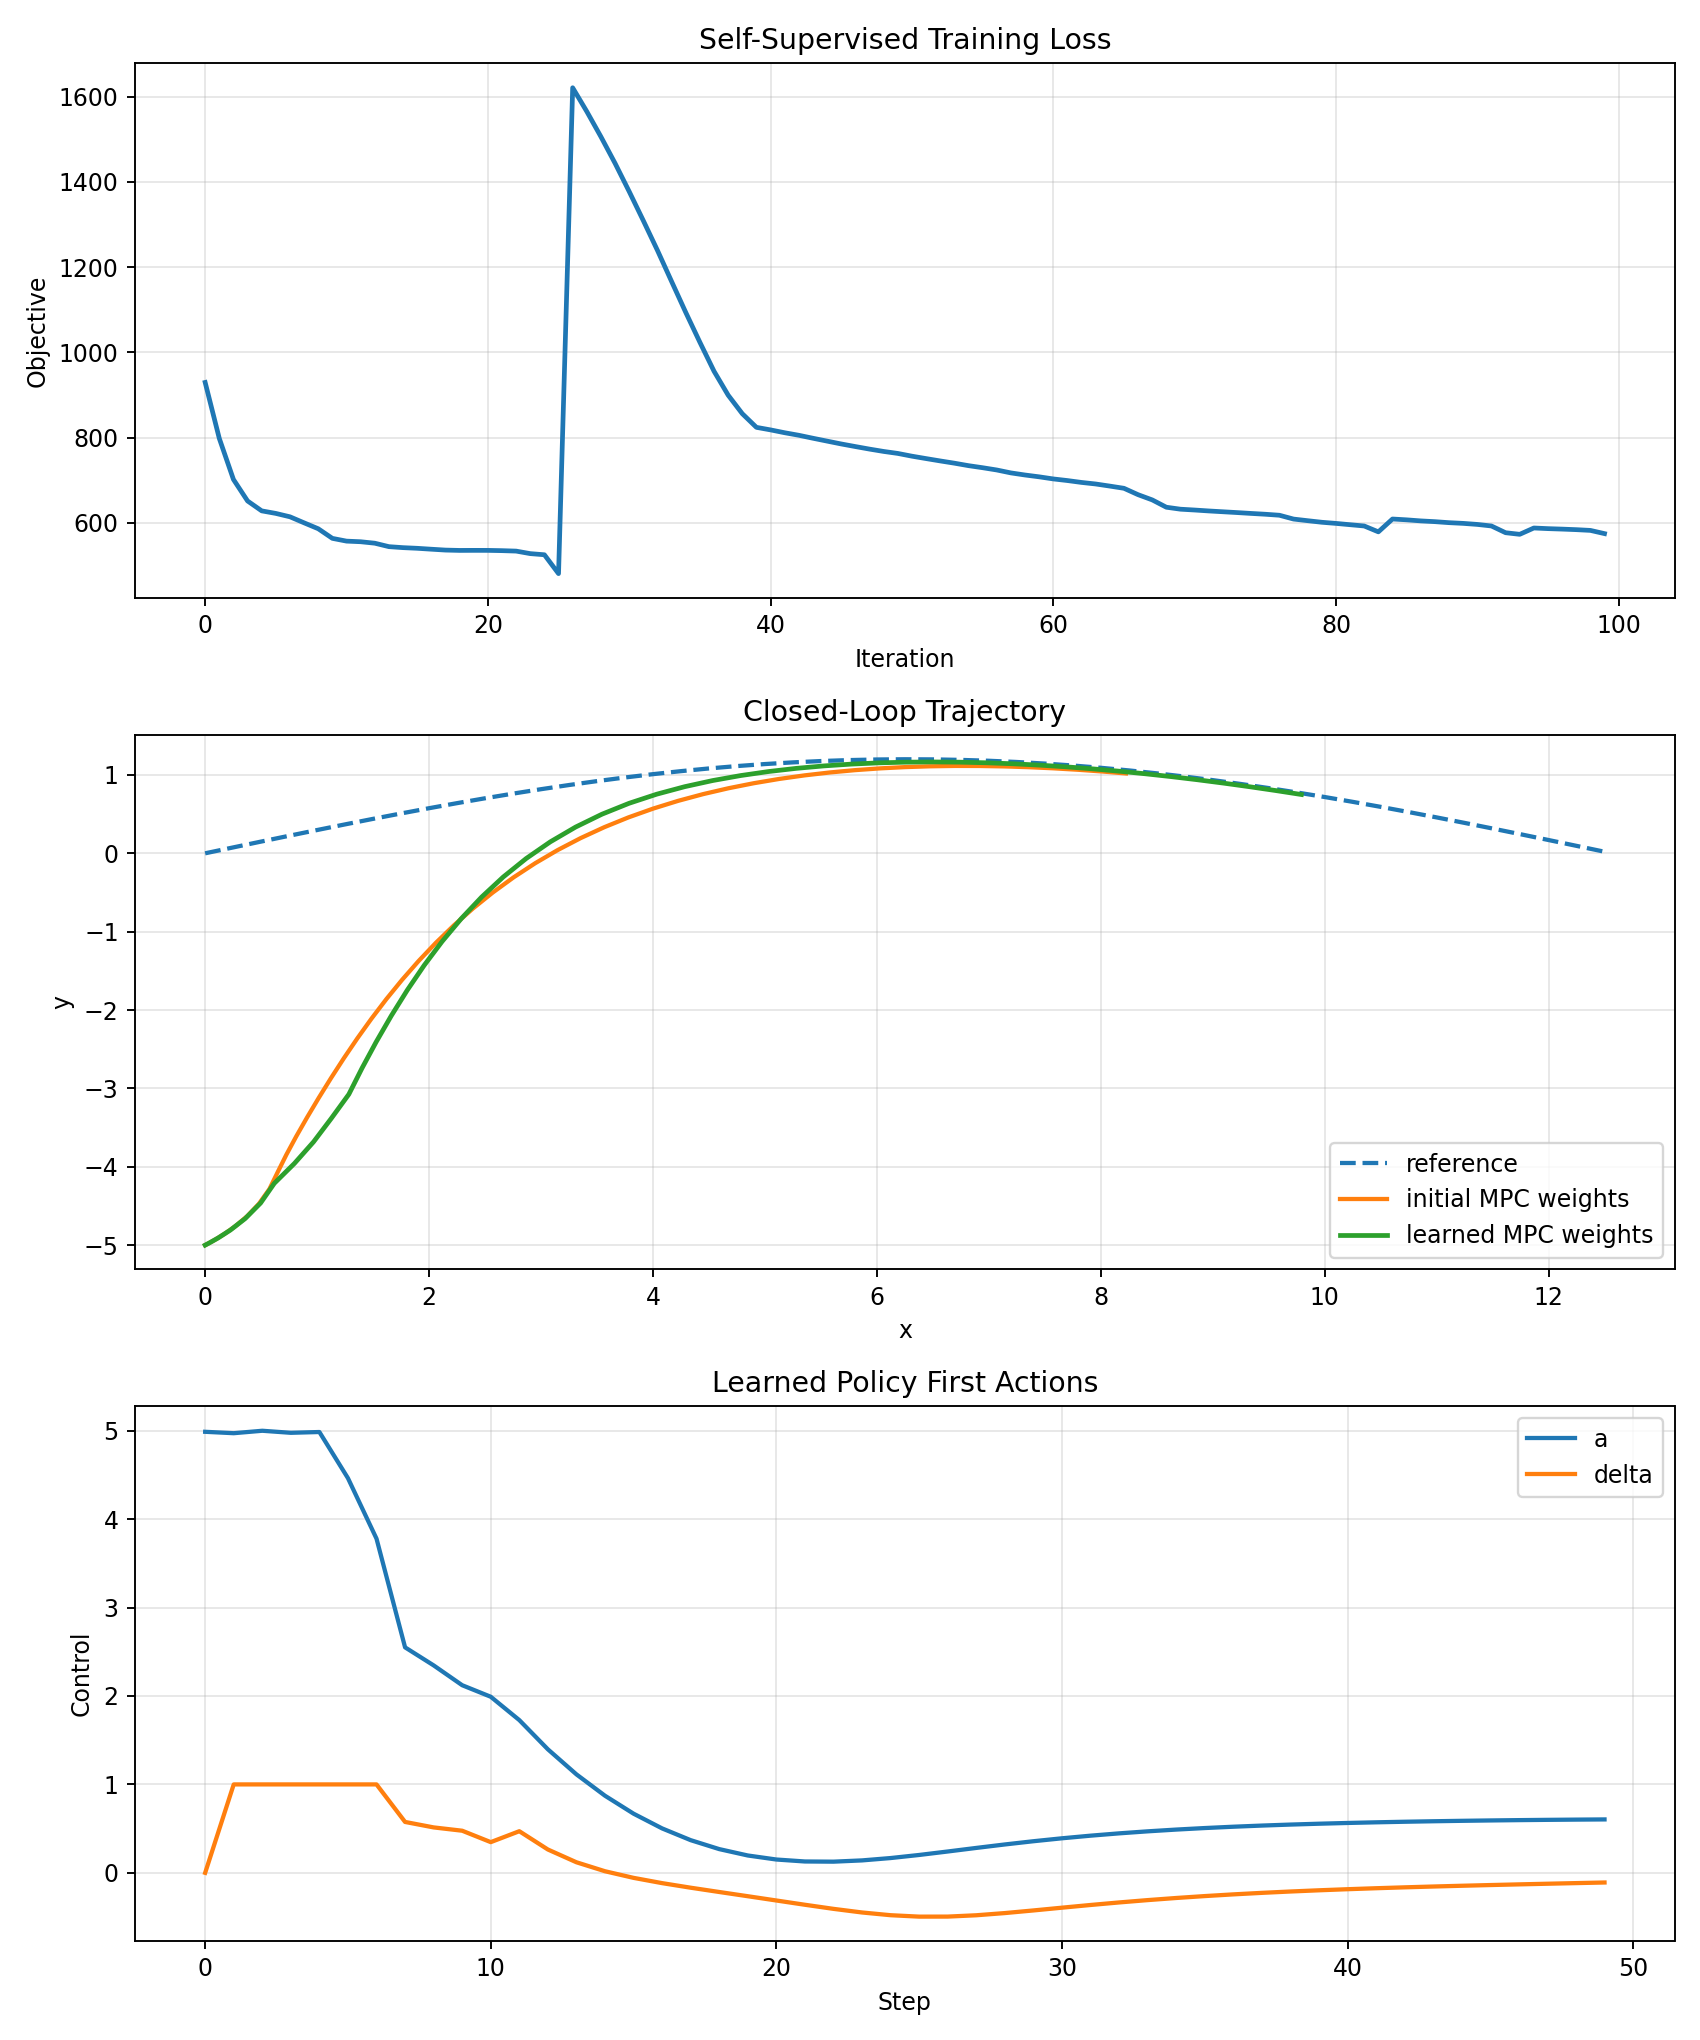
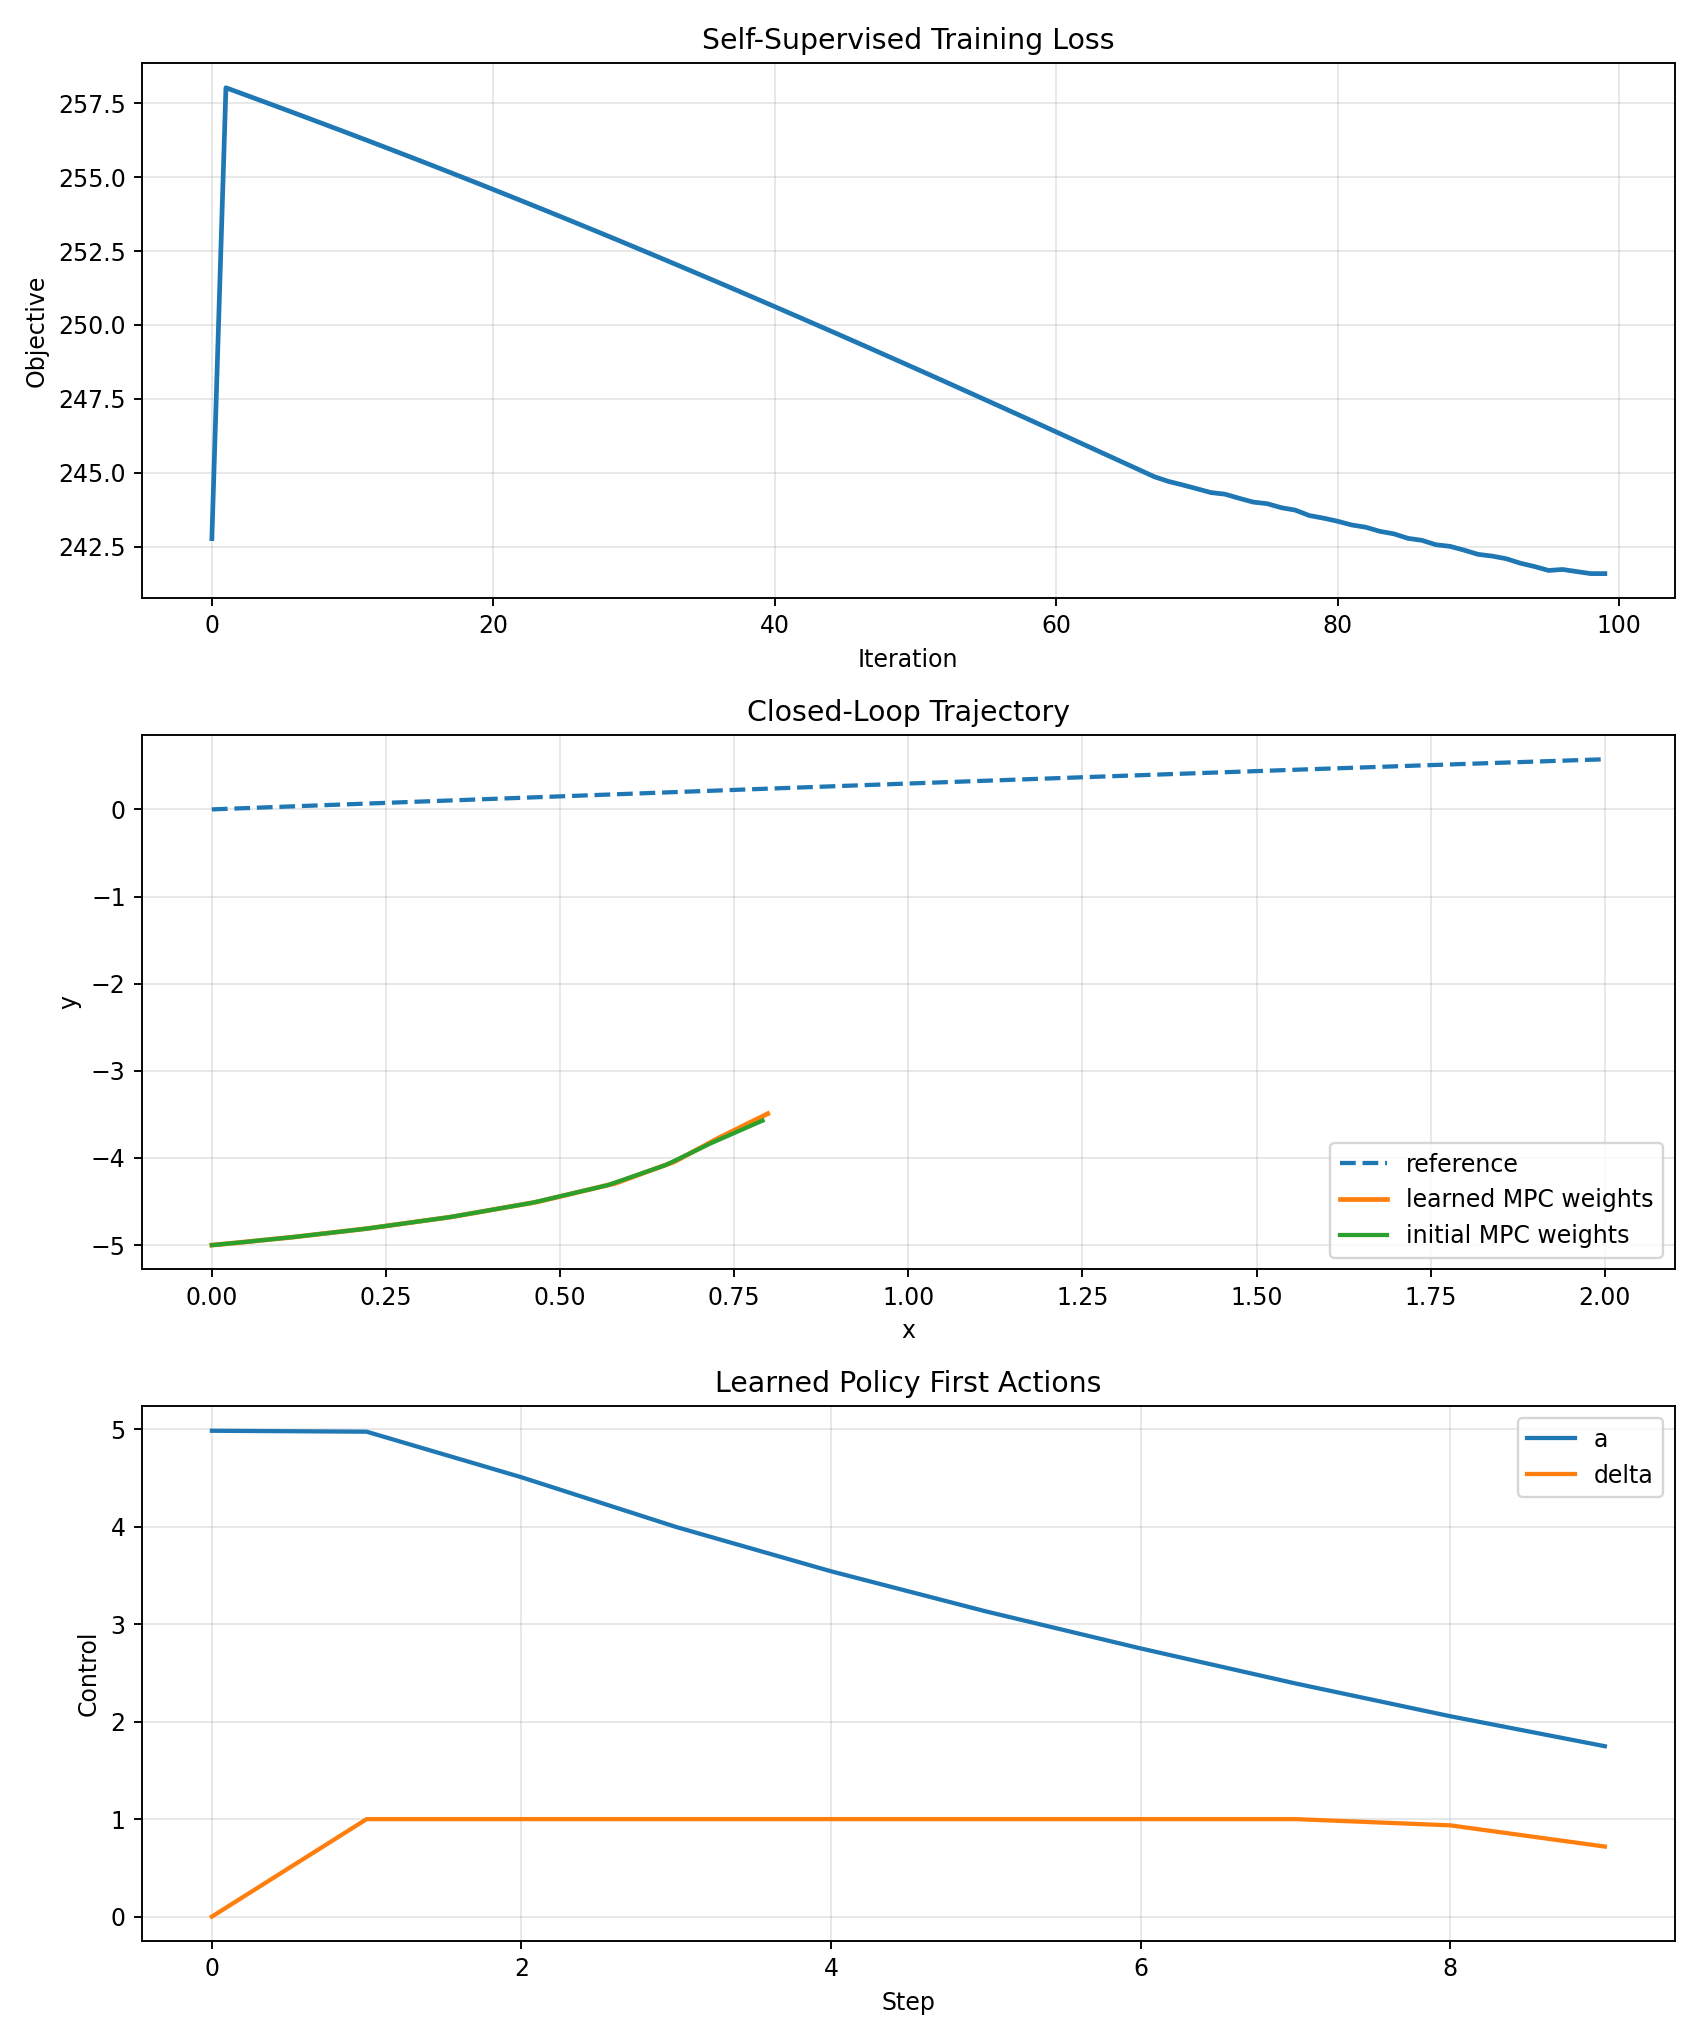
upload code for diffNMPC

diff --git a/JAX-example-DiffMPC/bicycle_diff_mpc_self_supervised_learning.py b/JAX-example-DiffMPC/bicycle_diff_mpc_self_supervised_learning.py
@@ -72,10 +72,10 @@ def bicycle_step(
     x, y, yaw, v = state
     a_cmd, delta_cmd = control
 
-    a = jnp.clip(a_cmd, -a_max, a_max)
+    a     = jnp.clip(a_cmd, -a_max, a_max)
     delta = jnp.clip(delta_cmd, -steer_max, steer_max)
 
-    wb = dyn.lf + dyn.lr
+    wb   = dyn.lf + dyn.lr
     beta = jnp.arctan((dyn.lr / wb) * jnp.tan(delta))
 
     x_next = x + dt * v * jnp.cos(yaw + beta)
@@ -326,8 +326,8 @@ def save_plots(output_dir: Path, losses, states_init, states_final, actions_fina
     axs[0].grid(True, alpha=0.3)
 
     axs[1].plot(ref[:, 0], ref[:, 1], "--", label="reference", linewidth=1.8)
-    axs[1].plot(states_init[:, 0], states_init[:, 1], label="initial MPC weights", linewidth=1.8)
     axs[1].plot(states_final[:, 0], states_final[:, 1], label="learned MPC weights", linewidth=2.0)
+    axs[1].plot(states_init[:, 0], states_init[:, 1], label="initial MPC weights", linewidth=1.8)
     axs[1].set_title("Closed-Loop Trajectory")
     axs[1].set_xlabel("x")
     axs[1].set_ylabel("y")
@@ -352,29 +352,29 @@ if __name__ == "__main__":
     # MPC and rollout settings
     dt        = 0.1
     horizon   = 10
-    mpc_iters = 200
-    mpc_lr    = 0.02
-    sim_steps = 50
+    mpc_iters = 300
+    mpc_lr    = 0.01
+    sim_steps = 10
     a_max     = 5.0
     steer_max = 1.
-    v_max     = 20.0
-    v_ref     = 2.5
+    v_max     = 10.0
+    v_ref     = 2.
 
     dyn = known_dynamics_params()
     state0 = jnp.array([0.0, -5.0, 0.0, 0.0])
 
     # Optimize only MPC weights (dynamics are known/fixed).
-    # theta = jnp.array([
-    #     0.20,    # q_pos_raw
-    #     0.10,    # q_yaw_raw
-    #     0.20,    # q_v_raw
-    #     -1.20,   # r_a_raw
-    #     -1.50,   # r_delta_raw
-    #     0.20,    # qf_pos_raw
-    #     0.20,    # qf_yaw_raw
-    #     0.20,    # qf_v_raw
-    # ])
-    theta = jax.random.uniform(jax.random.PRNGKey(0), shape=(8,), minval=0, maxval=2)
+    theta = jnp.array([
+        0.20,    # q_pos_raw
+        0.10,    # q_yaw_raw
+        0.20,    # q_v_raw
+        -1.20,   # r_a_raw
+        -1.50,   # r_delta_raw
+        0.20,    # qf_pos_raw
+        0.20,    # qf_yaw_raw
+        0.20,    # qf_v_raw
+    ])
+    # theta = jax.random.uniform(jax.random.PRNGKey(0), shape=(8,), minval=0, maxval=2)
     theta_init = theta
 
     def self_supervised_loss(theta_local: jax.Array) -> jax.Array:
@@ -405,7 +405,7 @@ if __name__ == "__main__":
 
 
     loss_and_grad = jax.jit(jax.value_and_grad(self_supervised_loss))
-    train_lr    = 1e-3
+    train_lr    = 2e-3
     train_iters = 100
     losses      = []
 
@@ -454,7 +454,7 @@ if __name__ == "__main__":
     print("\nLearned MPC weights:")
     for key in ["q_pos", "q_yaw", "q_v", "r_a", "r_delta", "qf_pos", "qf_yaw", "qf_v"]:
         # print(f"{key:>8s}: {decoded[key]:.4f}")
-        print(f"{key:>8s}: true={decoded_init[key]:.4f}, learned={decoded[key]:.4f}")
+        print(f"{key:>8s}: init={decoded_init[key]:.4f}, learned={decoded[key]:.4f}")
 
 
     output_dir = Path(__file__).resolve().parent / "outputs_bicycle_selfsup"
